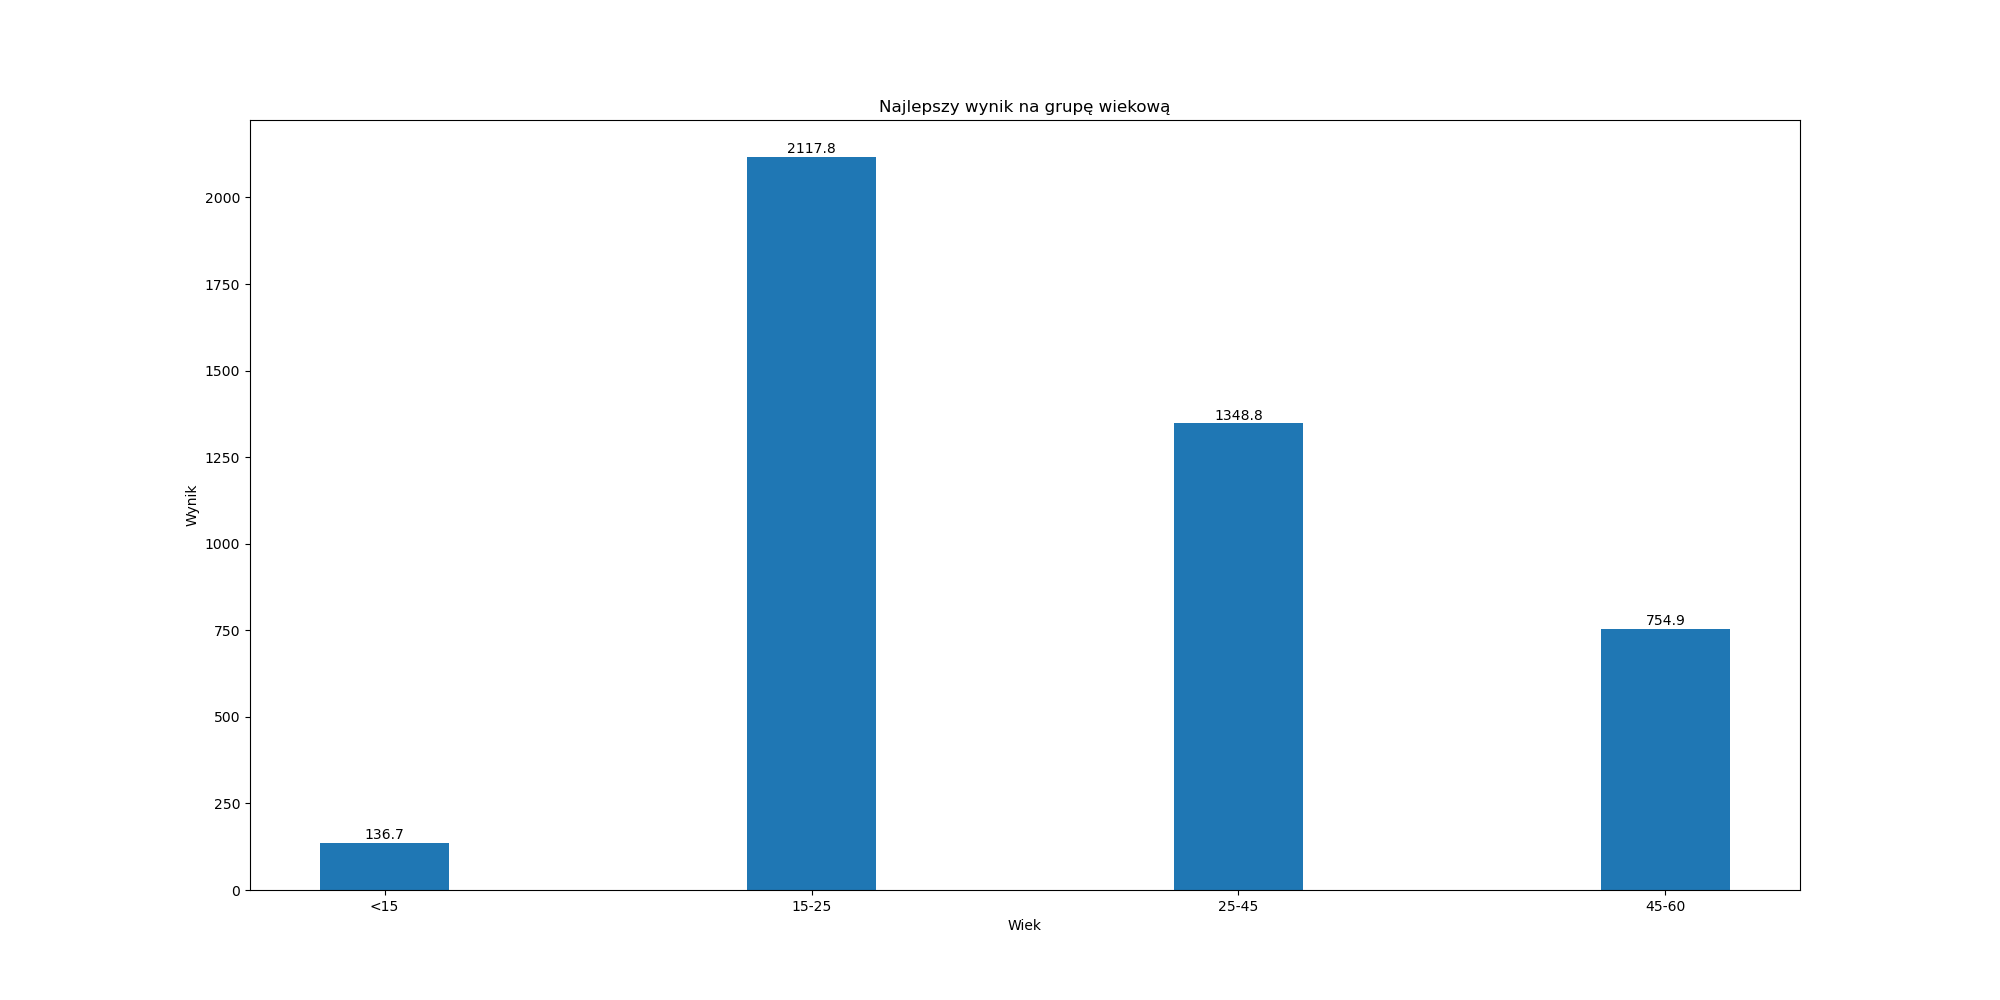
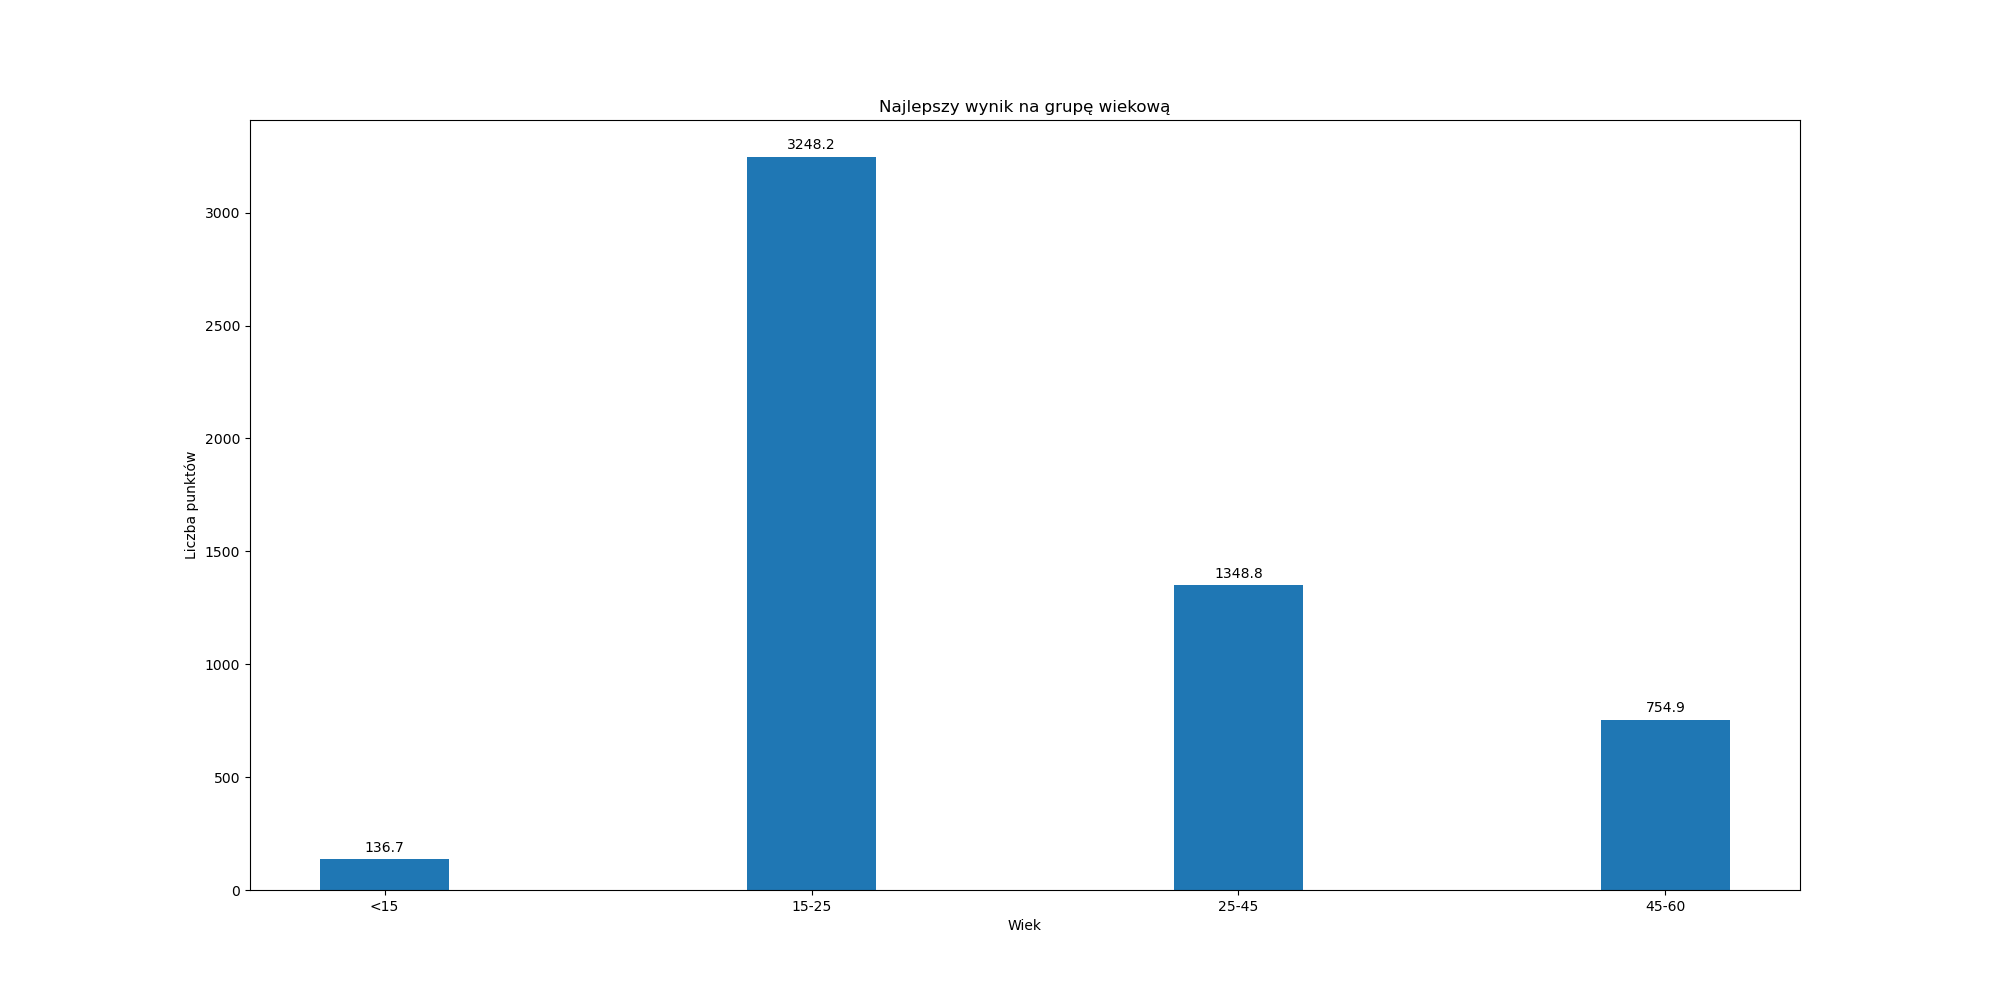
more charts

diff --git a/analysis/Analyzer.py b/analysis/Analyzer.py
@@ -25,12 +25,15 @@ class Analyzer:
             Analyzer.__save_to_file(result_pd, title)
 
         if visualize or save_visualization:
+            x = [f'{fav_game_type} / {count}' for fav_game_type, count in
+                 zip(result_pd['fav_game_type'], result_pd['game_count'])]
+
             ChartVisualizer.visualize(ChartTypeEnum.BAR, ChartParams(
-                x=result_pd['fav_game_type'],
+                x=x,
                 y=result_pd['mean_score'],
                 fig_title=title,
                 fig_size=(20, 10),
-                x_label='Typ ulubionej gry',
+                x_label='Typ ulubionej gry / Liczba gier',
                 y_label='Średnia liczba punktów',
             ), save_visualization)
 
@@ -50,8 +53,8 @@ class Analyzer:
                 y=result_pd['score'],
                 fig_title=title,
                 fig_size=(20, 10),
-                x_label='Czas gry (s)',
-                y_label='Wynik',
+                x_label='Czas gry [s]',
+                y_label='Liczba punktów',
                 classes=result_pd['fav_game_type'],
             ), save_visualization)
 
@@ -72,8 +75,130 @@ class Analyzer:
                 fig_title=title,
                 fig_size=(20, 10),
                 x_label='Wiek',
-                y_label='Wynik',
+                y_label='Liczba punktów',
                 bar_width=0.3,
+            ), save_visualization)
+
+    def best_score_by_fav_game_type_with_game_count(self, show_result: bool = True, result_to_file: bool = True, visualize: bool = True, save_visualization: bool = True) -> None:
+        result_pd = pd.read_sql(SqlQueries.best_score_by_fav_game_type_with_game_count, self.connection)
+        title = 'Najlepszy wynik na typ ulubionej gry'
+
+        if show_result:
+            print(result_pd.to_markdown())
+
+        if result_to_file:
+            Analyzer.__save_to_file(result_pd, title)
+
+        if visualize or save_visualization:
+            x = [f'{fav_game_type} / {count}' for fav_game_type, count in
+                 zip(result_pd['fav_game_type'], result_pd['game_count'])]
+
+            ChartVisualizer.visualize(ChartTypeEnum.BAR, ChartParams(
+                x=x,
+                y=result_pd['best_score'],
+                fig_title=title,
+                fig_size=(20, 10),
+                x_label='Typ ulubionej gry / Liczba gier',
+                y_label='Liczba punktów',
+                bar_width=0.3,
+            ), save_visualization)
+
+    def count_of_rejected_scores(self, show_result: bool = True, result_to_file: bool = True) -> None:
+        result_pd = pd.read_sql(SqlQueries.count_of_rejected_scores, self.connection)
+        title = 'Liczba odrzuconych wyników'
+
+        if show_result:
+            print(result_pd.to_markdown())
+
+        if result_to_file:
+            Analyzer.__save_to_file(result_pd, title)
+            
+    def mean_score_by_age(self, show_result: bool = True, result_to_file: bool = True, visualize: bool = True, save_visualization: bool = True) -> None:
+        result_pd = pd.read_sql(SqlQueries.mean_score_by_age, self.connection)
+        title = 'Średnia liczba punktów na wiek'
+
+        if show_result:
+            print(result_pd.to_markdown())
+
+        if result_to_file:
+            Analyzer.__save_to_file(result_pd, title)
+
+        if visualize or save_visualization:
+            ChartVisualizer.visualize(ChartTypeEnum.BAR, ChartParams(
+                x=result_pd['age'],
+                y=result_pd['mean_score'],
+                fig_title=title,
+                fig_size=(20, 10),
+                x_label='Wiek',
+                y_label='Liczba punktów',
+                bar_width=0.3,
+            ), save_visualization)
+
+    def count_of_preferred_playing_style(self, show_result: bool = True, result_to_file: bool = True, visualize: bool = True, save_visualization: bool = True) -> None:
+        result_pd = pd.read_sql(SqlQueries.count_of_preferred_playing_style, self.connection)
+        title = 'Preferowany stylów grania wśród użytkowników'
+
+        if show_result:
+            print(result_pd.to_markdown())
+
+        if result_to_file:
+            Analyzer.__save_to_file(result_pd, title)
+
+        if visualize or save_visualization:
+            ChartVisualizer.visualize(ChartTypeEnum.BAR, ChartParams(
+                x=result_pd['preferred_playing_style'],
+                y=result_pd['style_count'],
+                fig_title=title,
+                fig_size=(20, 10),
+                x_label='Preferowany styl grania',
+                y_label='Liczba głosów',
+                bar_width=0.3,
+            ), save_visualization)
+
+    def mean_accurate_by_fav_game_type(self, show_result: bool = True, result_to_file: bool = True, visualize: bool = True, save_visualization: bool = True) -> None:
+        result_pd = pd.read_sql(SqlQueries.mean_accurate_by_fav_game_type, self.connection)
+        title = 'Średnia celność na typ ulubionej gry'
+
+        if show_result:
+            print(result_pd.to_markdown())
+
+        if result_to_file:
+            Analyzer.__save_to_file(result_pd, title)
+
+        if visualize or save_visualization:
+            ChartVisualizer.visualize(ChartTypeEnum.BAR, ChartParams(
+                x=result_pd['fav_game_type'],
+                y=result_pd['accurate'],
+                fig_title=title,
+                fig_size=(20, 10),
+                x_label='Typ ulubionej gry',
+                y_label='Średnia celność [%]',
+                bar_width=0.3,
+            ), save_visualization)
+
+    def mean_accurate_by_preferred_playing_style_with_best_score(self, show_result: bool = True, result_to_file: bool = True, visualize: bool = True, save_visualization: bool = True) -> None:
+        result_pd = pd.read_sql(SqlQueries.mean_accurate_by_preferred_playing_style_with_best_score, self.connection)
+        title = 'Średnia celność na preferowany styl grania'
+
+        if show_result:
+            print(result_pd.to_markdown())
+
+        if result_to_file:
+            Analyzer.__save_to_file(result_pd, title)
+
+        if visualize or save_visualization:
+            x = [f'{game_style} / {score:.4f}' for game_style, score in
+                 zip(result_pd['preferred_playing_style'], result_pd['best_score'])]
+
+            ChartVisualizer.visualize(ChartTypeEnum.BAR, ChartParams(
+                x=x,
+                y=result_pd['accurate'],
+                fig_title=title,
+                fig_size=(20, 10),
+                x_label='Preferowany styl grania / Maksymalna liczba punktów',
+                y_label='Średnia celność [%]',
+                bar_width=0.3,
+                # classes=result_pd['best_score']
             ), save_visualization)
 
     @staticmethod

diff --git a/analysis/SqlQueries.py b/analysis/SqlQueries.py
@@ -1,32 +1,77 @@
 class SqlQueries:
-    mean_score_by_fav_game_type = """
-        SELECT i.favourite_game_type AS fav_game_type, AVG(g.score) AS mean_score
+    __from_game_join_user_survey = """
         FROM game g
         JOIN `user` u ON g.user_id = u.id
         JOIN initial_survey i ON u.id = i.user_id
         WHERE u.roles NOT LIKE '%ROLE_ADMIN%'
+    """
+
+    mean_score_by_fav_game_type = f"""
+        SELECT i.favourite_game_type AS fav_game_type, AVG(g.score) AS mean_score, COUNT(g.id) AS game_count
+        {__from_game_join_user_survey}
+            AND g.score > 100
         GROUP BY i.favourite_game_type
     """
 
-    time_and_score = """
+    time_and_score = f"""
         SELECT g.time AS time, g.score AS score, i.favourite_game_type AS fav_game_type
-        FROM game g
-        JOIN `user` u ON g.user_id = u.id
-        JOIN initial_survey i ON u.id = i.user_id
-        WHERE u.roles NOT LIKE '%ROLE_ADMIN%'
+        {__from_game_join_user_survey}
     """
 
-    best_score_by_age = """
+    best_score_by_age = f"""
         SELECT i.age AS age, MAX(g.score) AS best_score
-        FROM game g
-        JOIN `user` u ON g.user_id = u.id
-        JOIN initial_survey i ON u.id = i.user_id
-        WHERE u.roles NOT LIKE '%ROLE_ADMIN%'
-            AND g.score > 100
-            AND g.score < 2500
+        {__from_game_join_user_survey}
         GROUP BY i.age
     """
 
-    best_score_by_fav_game_type_with_number_of_game = """
-        
+    mean_score_by_age = f"""
+        SELECT i.age AS age, AVG(g.score) as mean_score
+        {__from_game_join_user_survey}
+            AND g.score > 100
+        GROUP BY i.age
+    """
+
+    best_score_by_fav_game_type_with_game_count = f"""
+        SELECT i.favourite_game_type AS fav_game_type, MAX(g.score) AS best_score, COUNT(g.score) AS game_count
+        {__from_game_join_user_survey}
+        GROUP BY i.favourite_game_type
+    """
+
+    count_of_rejected_scores = f"""
+        SELECT COUNT(g.score) AS count_of_rejected_scores
+        {__from_game_join_user_survey}
+            AND g.score <= 100
+    """
+
+    count_of_preferred_playing_style = f"""
+        SELECT i.preferred_playing_style AS preferred_playing_style, COUNT(i.preferred_playing_style) AS style_count
+        {__from_game_join_user_survey}
+        GROUP BY i.preferred_playing_style
+    """
+
+    mean_accurate_by_fav_game_type = f"""
+        SELECT 
+            i.favourite_game_type AS fav_game_type, 
+            ((COUNT(s.miss_shots) - SUM(s.miss_shots)) / COUNT(s.miss_shots)) * 100 AS accurate
+        FROM game g
+                 JOIN `user` u ON g.user_id = u.id
+                 JOIN initial_survey i ON u.id = i.user_id
+                 JOIN square s ON s.game_id = g.id
+        WHERE u.roles NOT LIKE '%ROLE_ADMIN%'
+            AND g.score > 100
+        GROUP BY i.favourite_game_type
+    """
+
+    mean_accurate_by_preferred_playing_style_with_best_score = f"""
+        SELECT 
+            i.preferred_playing_style AS preferred_playing_style, 
+            ((COUNT(s.miss_shots) - SUM(s.miss_shots)) / COUNT(s.miss_shots)) * 100 AS accurate, 
+            MAX(g.score) as best_score
+        FROM game g
+                 JOIN `user` u ON g.user_id = u.id
+                 JOIN initial_survey i ON u.id = i.user_id
+                 JOIN square s ON s.game_id = g.id
+        WHERE u.roles NOT LIKE '%ROLE_ADMIN%'
+            AND g.score > 100
+        GROUP BY i.preferred_playing_style
     """

diff --git a/analysis/ChartVisualizer.py b/analysis/ChartVisualizer.py
@@ -1,5 +1,6 @@
 import numpy as np
 from matplotlib import pyplot as plt
+from matplotlib.patches import Patch
 from unidecode import unidecode
 import random
 
@@ -46,13 +47,27 @@ class ChartVisualizer:
         colors, labels = ChartVisualizer.__generate_colors_amd(chart_params.classes.to_numpy()) if chart_params.classes is not None else (None, None)
 
         if chart_type == ChartTypeEnum.BAR:
-            bars = plt.bar(list(map(str.capitalize, chart_params.x)), y, width=chart_params.bar_width)
+            x = list(map(str.capitalize, x))
+
+            if colors is not None:
+                # not working, not labels. works probably with axis
+                uniques_colors = np.unique(colors)
+                rgb_colors = ChartVisualizer.__get_random_colors(len(uniques_colors))
+
+                bars = plt.bar(x, y, width=chart_params.bar_width, color=rgb_colors._segmentdata)
+
+                handles = [plt.Rectangle((0, 0), 1, 1, color=rgb_color) for rgb_color in rgb_colors._segmentdata]
+                plt.legend(handles, labels)
+            else:
+                bars = plt.bar(x, y, width=chart_params.bar_width)
 
             if chart_params.y_val_bar_label:
+                max_height = np.max([bar.get_height() for bar in bars])
+
                 for bar in bars:
                     plt.text(
                         bar.get_x() + bar.get_width() / 2,
-                        bar.get_height() + 10,
+                        bar.get_height() + max_height * 0.01,
                         round(bar.get_height(), 1),
                         horizontalalignment='center',
                     )
@@ -65,7 +80,7 @@ class ChartVisualizer:
                 rgb_colors = ChartVisualizer.__get_random_colors(len(uniques_colors))
 
                 for color_unique in np.unique(colors):
-                    plt.scatter(x[color_unique == colors], y[color_unique == colors], color=rgb_colors[color_unique],
+                    plt.scatter(x[color_unique == colors], y[color_unique == colors], color=rgb_colors(color_unique),
                                 label=labels[color_unique == colors][0], cmap=plt.get_cmap('magma'))
             else:
                 plt.scatter(x, y, c=colors, cmap=plt.get_cmap('rainbow'))
@@ -91,4 +106,5 @@ class ChartVisualizer:
 
     @staticmethod
     def __get_random_colors(n: int) -> np.array:
-        return np.array(["#%06x" % random.randint(0, 0xFFFFFF) for _ in range(n)])
+        # return np.array(["#%06x" % random.randint(0, 0xFFFFFF) for _ in range(n)])
+        return plt.cm.get_cmap('hsv', n)

diff --git a/analysis/main.py b/analysis/main.py
@@ -12,6 +12,12 @@ if __name__ == '__main__':
     ) as connection:
         analyzer = Analyzer(connection)
 
-        # analyzer.mean_score_by_fav_game_type()
+        analyzer.mean_score_by_fav_game_type()
         analyzer.dependency_score_on_time()
-        # analyzer.best_score_by_age()
+        analyzer.best_score_by_age()
+        analyzer.best_score_by_fav_game_type_with_game_count()
+        analyzer.count_of_rejected_scores()
+        analyzer.mean_score_by_age()
+        analyzer.count_of_preferred_playing_style()
+        analyzer.mean_accurate_by_fav_game_type()
+        analyzer.mean_accurate_by_preferred_playing_style_with_best_score()
